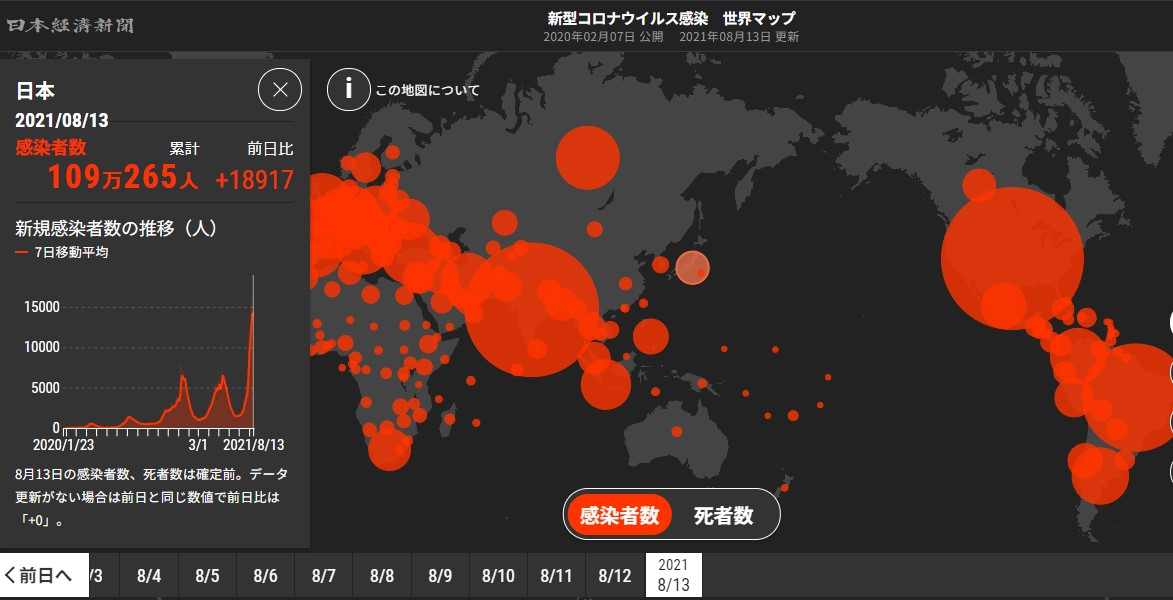
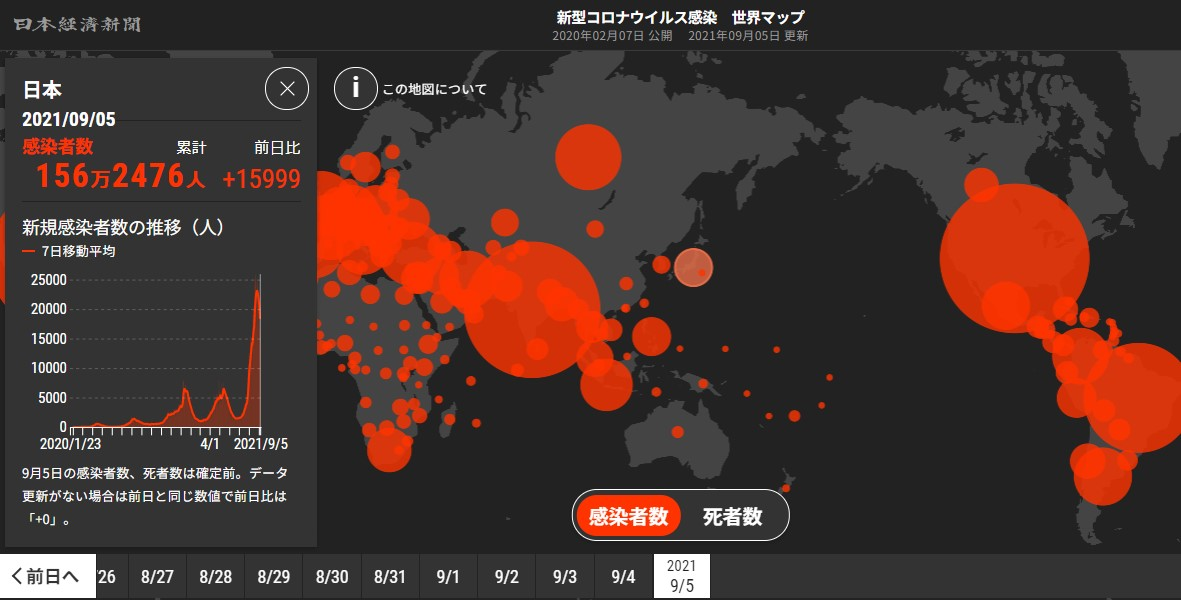
regular update

diff --git a/parts/news.php b/parts/news.php
@@ -33,7 +33,7 @@
        
         
 
-        <!-- 2021年08月XX日
+        <!-- 2021年09月XX日
     
         <li>
                 <i class="far fa-file-alt"></i>
@@ -52,6 +52,272 @@
         </li>
 
     <hr> -->
+        2021年09月06日
+    
+        <li>
+                <i class="far fa-file-alt"></i>
+                <a href="https://www.nikkei.com/article/DGXZQOCC060DK0W1A900C2000000/" target="blank" rel="noopener">
+                東京都968人感染、1000人切る　7日平均で前週の65.1%</a>
+        </li>
+        <li>
+                <i class="far fa-file-alt"></i>
+                <a href="https://www.nikkei.com/article/DGXZQOUA066IX0W1A900C2000000/" target="blank" rel="noopener">
+                「研修施設、20社がコロナ対策で提供」経団連会長</a>
+        </li>
+        <li>
+                <i class="far fa-file-alt"></i>
+                <a href="https://www.nikkei.com/article/DGXZQOUA063A30W1A900C2000000/" target="blank" rel="noopener">
+                全国のコロナ重症者数2198人　2日連続減少は52日ぶり</a>
+        </li>
+
+    <hr>
+    2021年09月05日
+    
+        <li>
+                <i class="far fa-file-alt"></i>
+                <a href="https://www.nikkei.com/article/DGXZQOCC051G60V00C21A9000000/" target="blank" rel="noopener">
+                東京都、新たに1853人感染　7日平均で前週の67.4%</a>
+        </li>
+        <li>
+                <i class="far fa-file-alt"></i>
+                <a href="https://www.nikkei.com/article/DGXZQOUC3090Y0Q1A830C2000000/" target="blank" rel="noopener">
+                コロナワクチン、用量半分で接種拡大　WHOが研究奨励</a>
+        </li>
+        <li>
+                <i class="far fa-file-alt"></i>
+                <a href="https://www.nikkei.com/article/DGXZQODK1918C0Z10C21A8000000/" target="blank" rel="noopener">
+                コロナ、経験生かし重症化防ぐ　薬剤選びや呼吸管理で</a>
+        </li>
+
+    <hr>
+        2021年09月04日
+    
+        <li>
+                <i class="far fa-file-alt"></i>
+                <a href="https://www.nikkei.com/article/DGXZQOCC042AS0U1A900C2000000/" target="blank" rel="noopener">
+                東京都、新たに2362人感染　7日平均で前週の68.6%</a>
+        </li>
+        <li>
+                <i class="far fa-file-alt"></i>
+                <a href="https://www.nikkei.com/article/DGXZQOUA041SB0U1A900C2000000/" target="blank" rel="noopener">
+                コロナ重症者数2223人　3日連続で過去最多を更新</a>
+        </li>
+        <li>
+                <i class="far fa-file-alt"></i>
+                <a href="https://www.nikkei.com/article/DGXZQOUD190MF0Z10C21A8000000/" target="blank" rel="noopener">
+                森林火災のPM2.5で新型コロナの死者が大幅増、米研究</a>
+        </li>
+
+    <hr>
+        2021年09月03日
+    
+        <li>
+                <i class="far fa-file-alt"></i>
+                <a href="https://www.nikkei.com/article/DGXZQOCC031340T00C21A9000000/" target="blank" rel="noopener">
+                東京都、新たに2539人感染　7日平均で前週の69.3%</a>
+        </li>
+        <li>
+                <i class="far fa-file-alt"></i>
+                <a href="https://www.nikkei.com/article/DGXZQOUE034500T00C21A9000000/" target="blank" rel="noopener">
+                コロナ対応「空白避けて」　首相、総裁選不出馬</a>
+        </li>
+        <li>
+                <i class="far fa-file-alt"></i>
+                <a href="https://www.nikkei.com/article/DGXZQOCB0310L0T00C21A9000000/" target="blank" rel="noopener">
+                米国　待ち切れずに抜け駆け、3回目ワクチン接種</a>
+        </li>
+
+    <hr>
+        2021年09月02日
+    
+        <li>
+                <i class="far fa-file-alt"></i>
+                <a href="https://www.nikkei.com/article/DGXZQOCC020JY0S1A900C2000000/" target="blank" rel="noopener">
+                東京都、新たに3099人感染　7日平均で前週の72.1%</a>
+        </li>
+        <li>
+                <i class="far fa-file-alt"></i>
+                <a href="https://www.nikkei.com/article/DGXZQOUA023DI0S1A900C2000000/" target="blank" rel="noopener">
+                変異ウイルス「ミュー型」　官房長官「動向を監視」</a>
+        </li>
+        <li>
+                <i class="far fa-file-alt"></i>
+                <a href="https://www.nikkei.com/article/DGXZQOUA0249R0S1A900C2000000/" target="blank" rel="noopener">
+                コロナ重症者、再び最多2158人　前日比66人増</a>
+        </li>
+
+    <hr>
+        2021年09月01日
+    
+        <li>
+                <i class="far fa-file-alt"></i>
+                <a href="https://www.nikkei.com/article/DGXZQOUE01B8V0R00C21A9000000/" target="blank" rel="noopener">
+                2回接種で高い有効率　感染研、注射後14日以上</a>
+        </li>
+        <li>
+                <i class="far fa-file-alt"></i>
+                <a href="https://www.nikkei.com/article/DGXZQOUD190MF0Z10C21A8000000/" target="blank" rel="noopener">
+                森林火災のPM2.5で新型コロナの死者が大幅増、米研究</a>
+        </li>
+        <li>
+                <i class="far fa-file-alt"></i>
+                <a href="https://www.nikkei.com/article/DGXZQOCC0126W0R00C21A9000000/" target="blank" rel="noopener">
+                東京都、新たに3168人感染　7日平均で前週の75.4%</a>
+        </li>
+
+    <hr>
+        2021年08月31日
+    
+        <li>
+                <i class="far fa-file-alt"></i>
+                <a href="https://www.nikkei.com/article/DGXZQOCC3135K0R30C21A8000000/" target="blank" rel="noopener">
+                東京都、新たに2909人感染　7日平均で前週の75.9%</a>
+        </li>
+        <li>
+                <i class="far fa-file-alt"></i>
+                <a href="https://www.nikkei.com/article/DGXZQODK244HI0U1A820C2000000/" target="blank" rel="noopener">
+                開業医、コロナ対応で試される真価　国・都が協力要請</a>
+        </li>
+        <li>
+                <i class="far fa-file-alt"></i>
+                <a href="https://www.nikkei.com/article/DGXZQOCC314J40R30C21A8000000/" target="blank" rel="noopener">
+                都内のクラスター、第5波は企業や学校が主体に</a>
+        </li>
+
+    <hr>
+        2021年08月30日
+    
+        <li>
+                <i class="far fa-file-alt"></i>
+                <a href="https://www.nikkei.com/article/DGXZQOCC301WU0Q1A830C2000000/" target="blank" rel="noopener">
+                東京都、新たに1915人感染　7日平均で前週の79.6%</a>
+        </li>
+        <li>
+                <i class="far fa-file-alt"></i>
+                <a href="https://www.nikkei.com/article/DGXZQOUE303YG0Q1A830C2000000/" target="blank" rel="noopener">
+                子どもの感染、1週間で3万人超　20歳未満が初の2割</a>
+        </li>
+        <li>
+                <i class="far fa-file-alt"></i>
+                <a href="https://www.nikkei.com/article/DGXZQOCC24BSO0U1A820C2000000/" target="blank" rel="noopener">
+                オンライン診療の活用模索　首都圏の医師会や自治体</a>
+        </li>
+
+    <hr>
+        2021年08月29日
+    
+        <li>
+                <i class="far fa-file-alt"></i>
+                <a href="https://www.nikkei.com/article/DGXZQOCC2913R0Z20C21A8000000/" target="blank" rel="noopener">
+                東京都、新たに3081人感染　7日平均で前週の80.0%</a>
+        </li>
+        <li>
+                <i class="far fa-file-alt"></i>
+                <a href="https://www.nikkei.com/article/DGXZQOUA123HC0S1A810C2000000/" target="blank" rel="noopener">
+                ワクチン効かぬ低成長　「引きこもり」続く日本経済</a>
+        </li>
+        <li>
+                <i class="far fa-file-alt"></i>
+                <a href="https://www.nikkei.com/article/DGXZQOUA290JL0Z20C21A8000000/" target="blank" rel="noopener">
+                3回目接種「一番早ければ10～11月から」河野氏 混合接種、厚労省に検討指示</a>
+        </li>
+
+    <hr>
+        2021年08月28日
+    
+        <li>
+                <i class="far fa-file-alt"></i>
+                <a href="https://www.nikkei.com/article/DGXZQOCC279Y90X20C21A8000000/" target="blank" rel="noopener">
+                東京都、新たに3581人感染　7日平均で前週の84.2%</a>
+        </li>
+        <li>
+                <i class="far fa-file-alt"></i>
+                <a href="https://www.nikkei.com/article/DGXZQOUA282520Y1A820C2000000/" target="blank" rel="noopener">
+                使用停止のモデルナワクチン、接種後に2人死亡</a>
+        </li>
+        <li>
+                <i class="far fa-file-alt"></i>
+                <a href="https://www.nikkei.com/article/DGXZQOUE280NW0Y1A820C2000000/" target="blank" rel="noopener">
+                若者向け接種、抽選制でも希望者殺到　渋谷の会場</a>
+        </li>
+
+    <hr>
+        2021年08月27日
+    
+        <li>
+                <i class="far fa-file-alt"></i>
+                <a href="https://www.nikkei.com/article/DGXZQOCC273PC0X20C21A8000000/" target="blank" rel="noopener">
+                東京都、新たに4227人感染　7日平均で前週の88.6%</a>
+        </li>
+        <li>
+                <i class="far fa-file-alt"></i>
+                <a href="https://www.nikkei.com/article/DGXZQOCA203LO0Q1A420C2000000/" target="blank" rel="noopener">
+                緊急事態、21都道府県に拡大　ビジュアル解説</a>
+        </li>
+        <li>
+                <i class="far fa-file-alt"></i>
+                <a href="https://www.nikkei.com/article/DGXZQOUA27BH10X20C21A8000000/" target="blank" rel="noopener">
+                コロナ自宅療養者、全国で11.8万人　前週比2万人超増える</a>
+        </li>
+
+    <hr>
+        2021年08月26日
+    
+        <li>
+                <i class="far fa-file-alt"></i>
+                <a href="https://www.nikkei.com/article/DGXZQOCC260KC0W1A820C2000000/" target="blank" rel="noopener">
+                東京都、新たに4704人感染　7日平均で前週の91.2%</a>
+        </li>
+        <li>
+                <i class="far fa-file-alt"></i>
+                <a href="https://www.nikkei.com/article/DGXZQOUA25EKV0V20C21A8000000/" target="blank" rel="noopener">
+                モデルナワクチンの異物、一部は金属の可能性も　厚労省</a>
+        </li>
+        <li>
+                <i class="far fa-file-alt"></i>
+                <a href="https://www.nikkei.com/article/DGXZQOFE114OP0R10C21A8000000/" target="blank" rel="noopener">
+                野生シカ4割にコロナ抗体、集団感染か　米農務省調査</a>
+        </li>
+
+    <hr>
+        2021年08月25日
+    
+        <li>
+                <i class="far fa-file-alt"></i>
+                <a href="https://www.nikkei.com/article/DGXZQOCC250HR0V20C21A8000000/" target="blank" rel="noopener">
+                東京都、新たに4228人感染　7日平均で前週下回る</a>
+        </li>
+        <li>
+                <i class="far fa-file-alt"></i>
+                <a href="https://www.nikkei.com/article/DGXZQOUA253HM0V20C21A8000000/" target="blank" rel="noopener">
+                緊急事態8道県追加、まん延防止は4県　政府決定 27日から9月12日まで</a>
+        </li>
+        <li>
+                <i class="far fa-file-alt"></i>
+                <a href="https://www.nikkei.com/article/DGXZQOUF2582B0V20C21A8000000/" target="blank" rel="noopener">
+                大阪府、過去最多の2808人感染　自宅療養者も最多更新</a>
+        </li>
+
+    <hr>
+        2021年08月24日
+    
+        <li>
+                <i class="far fa-file-alt"></i>
+                <a href="https://www.nikkei.com/article/DGXZQOCC240GU0U1A820C2000000/" target="blank" rel="noopener">
+                東京都、新たに4220人感染　7日平均で前週の102.4%</a>
+        </li>
+        <li>
+                <i class="far fa-file-alt"></i>
+                <a href="https://www.nikkei.com/article/DGXZQOCB241GS0U1A820C2000000/?unlock=1" target="blank" rel="noopener">
+                ワクチン接種の有無　ウイルス量と無関係</a>
+        </li>
+        <li>
+                <i class="far fa-file-alt"></i>
+                <a href="https://www.nikkei.com/article/DGXZQOUE2442E0U1A820C2000000/" target="blank" rel="noopener">
+                都内のコロナ救急搬送、12%が病院まで「5時間以上」</a>
+        </li>
+
+    <hr>
         2021年08月23日
     
         <li>
